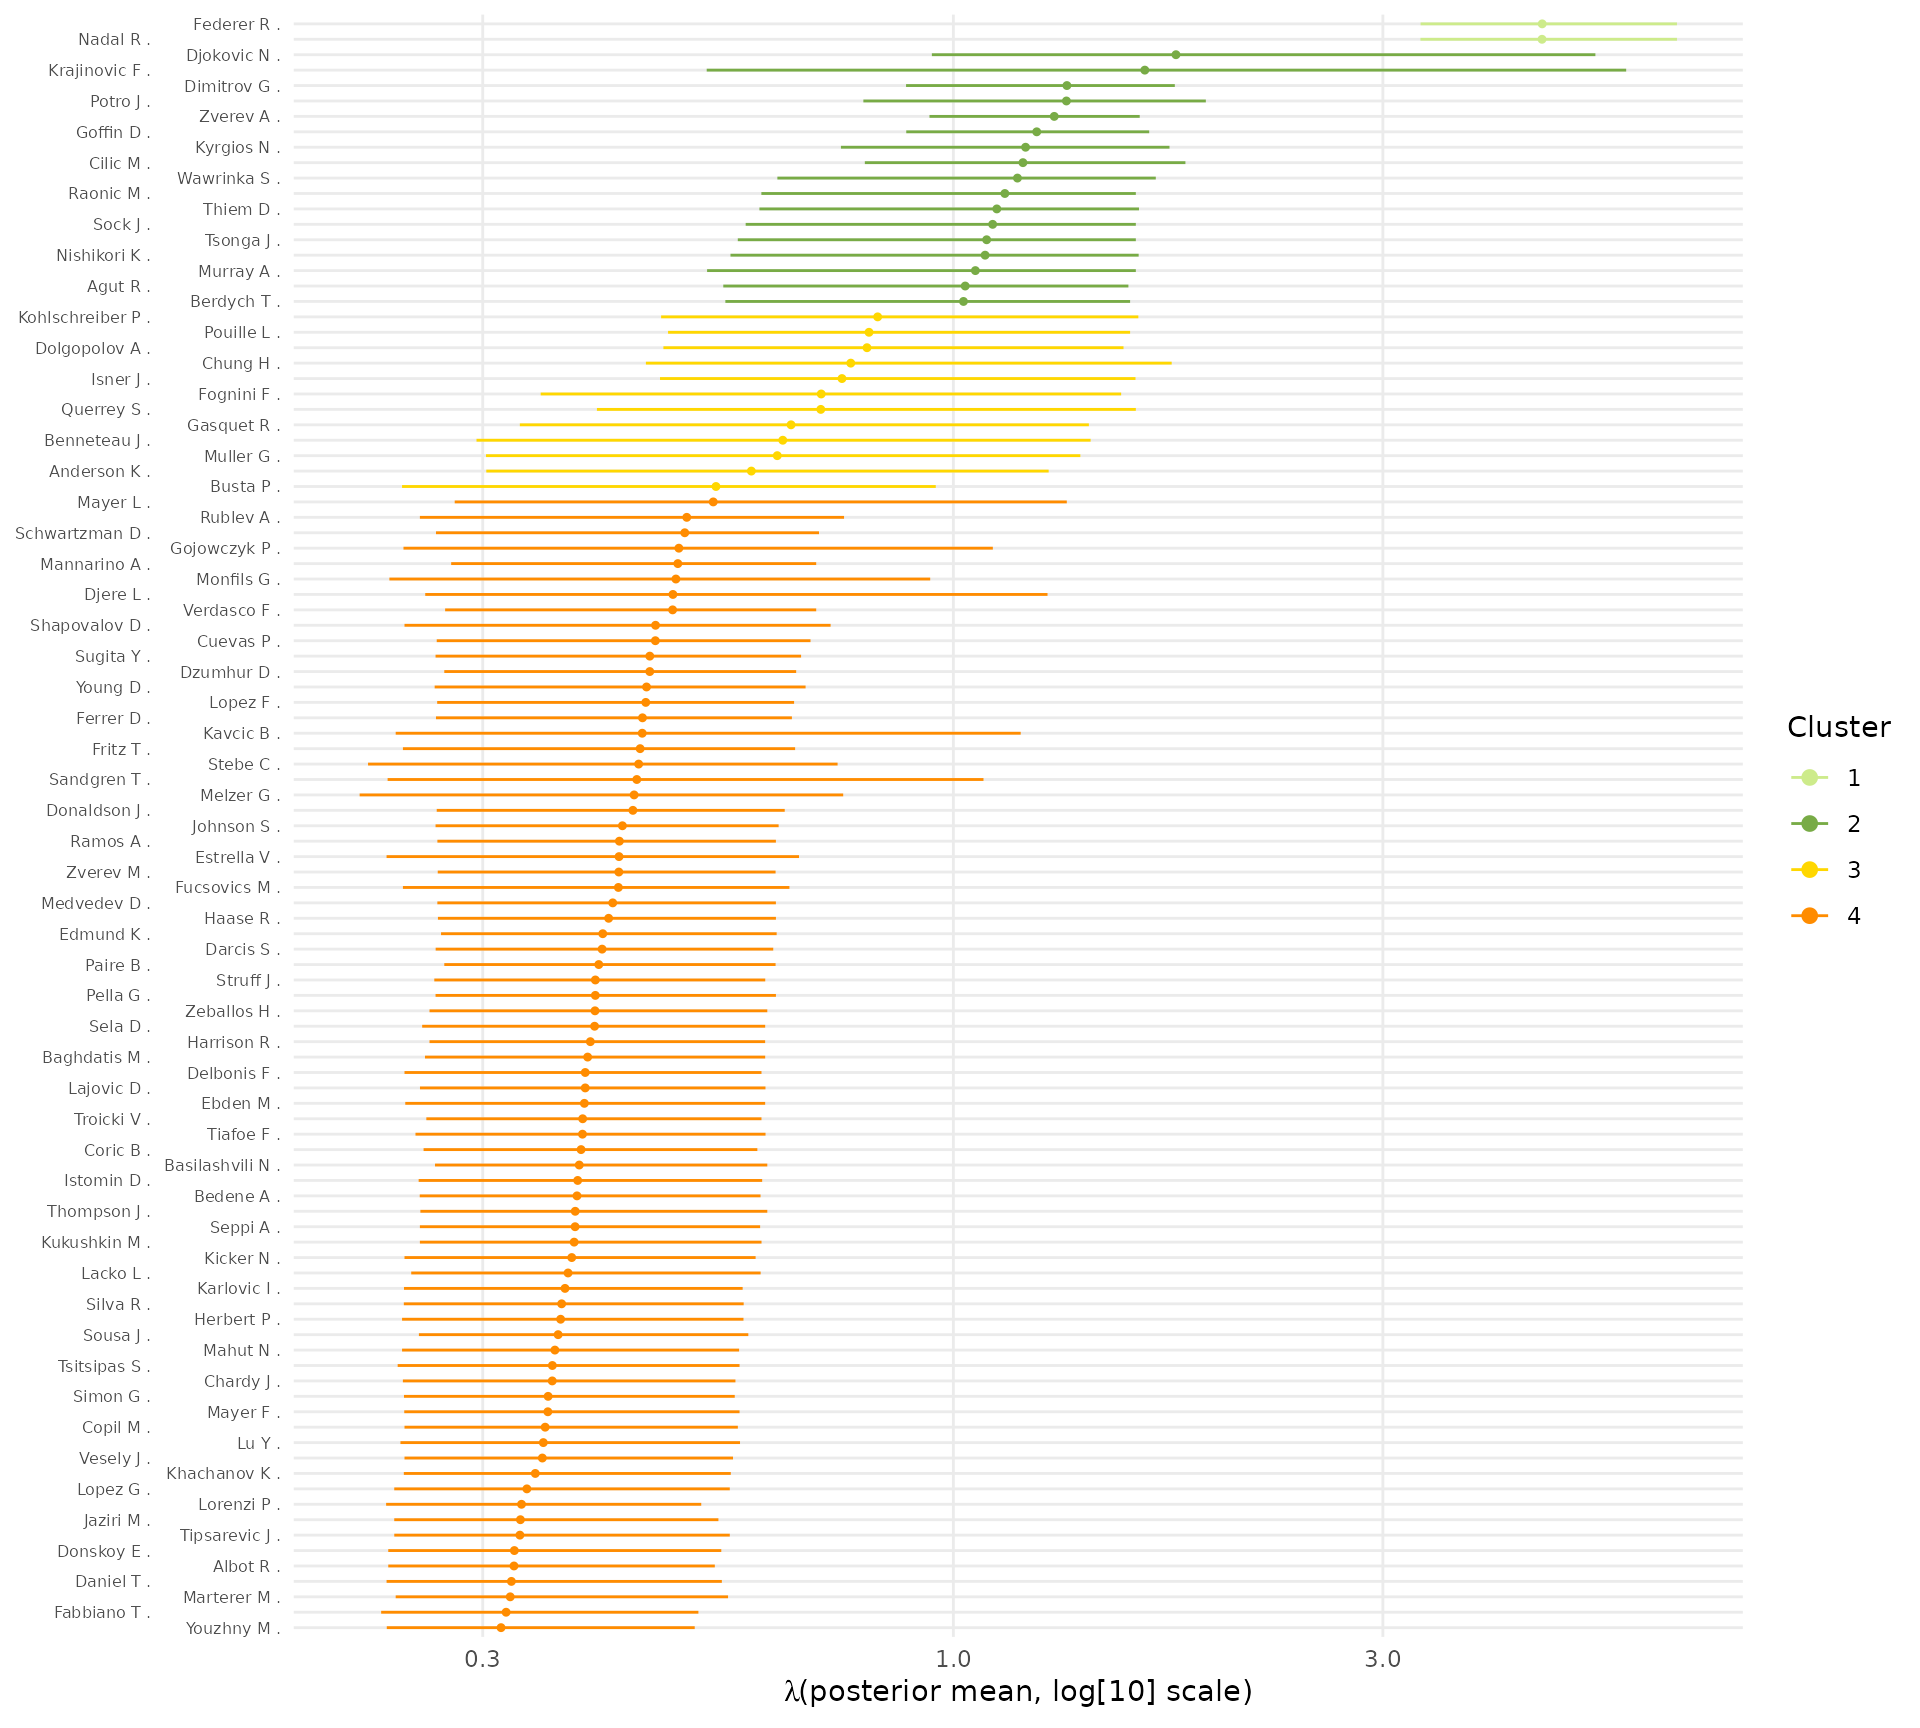
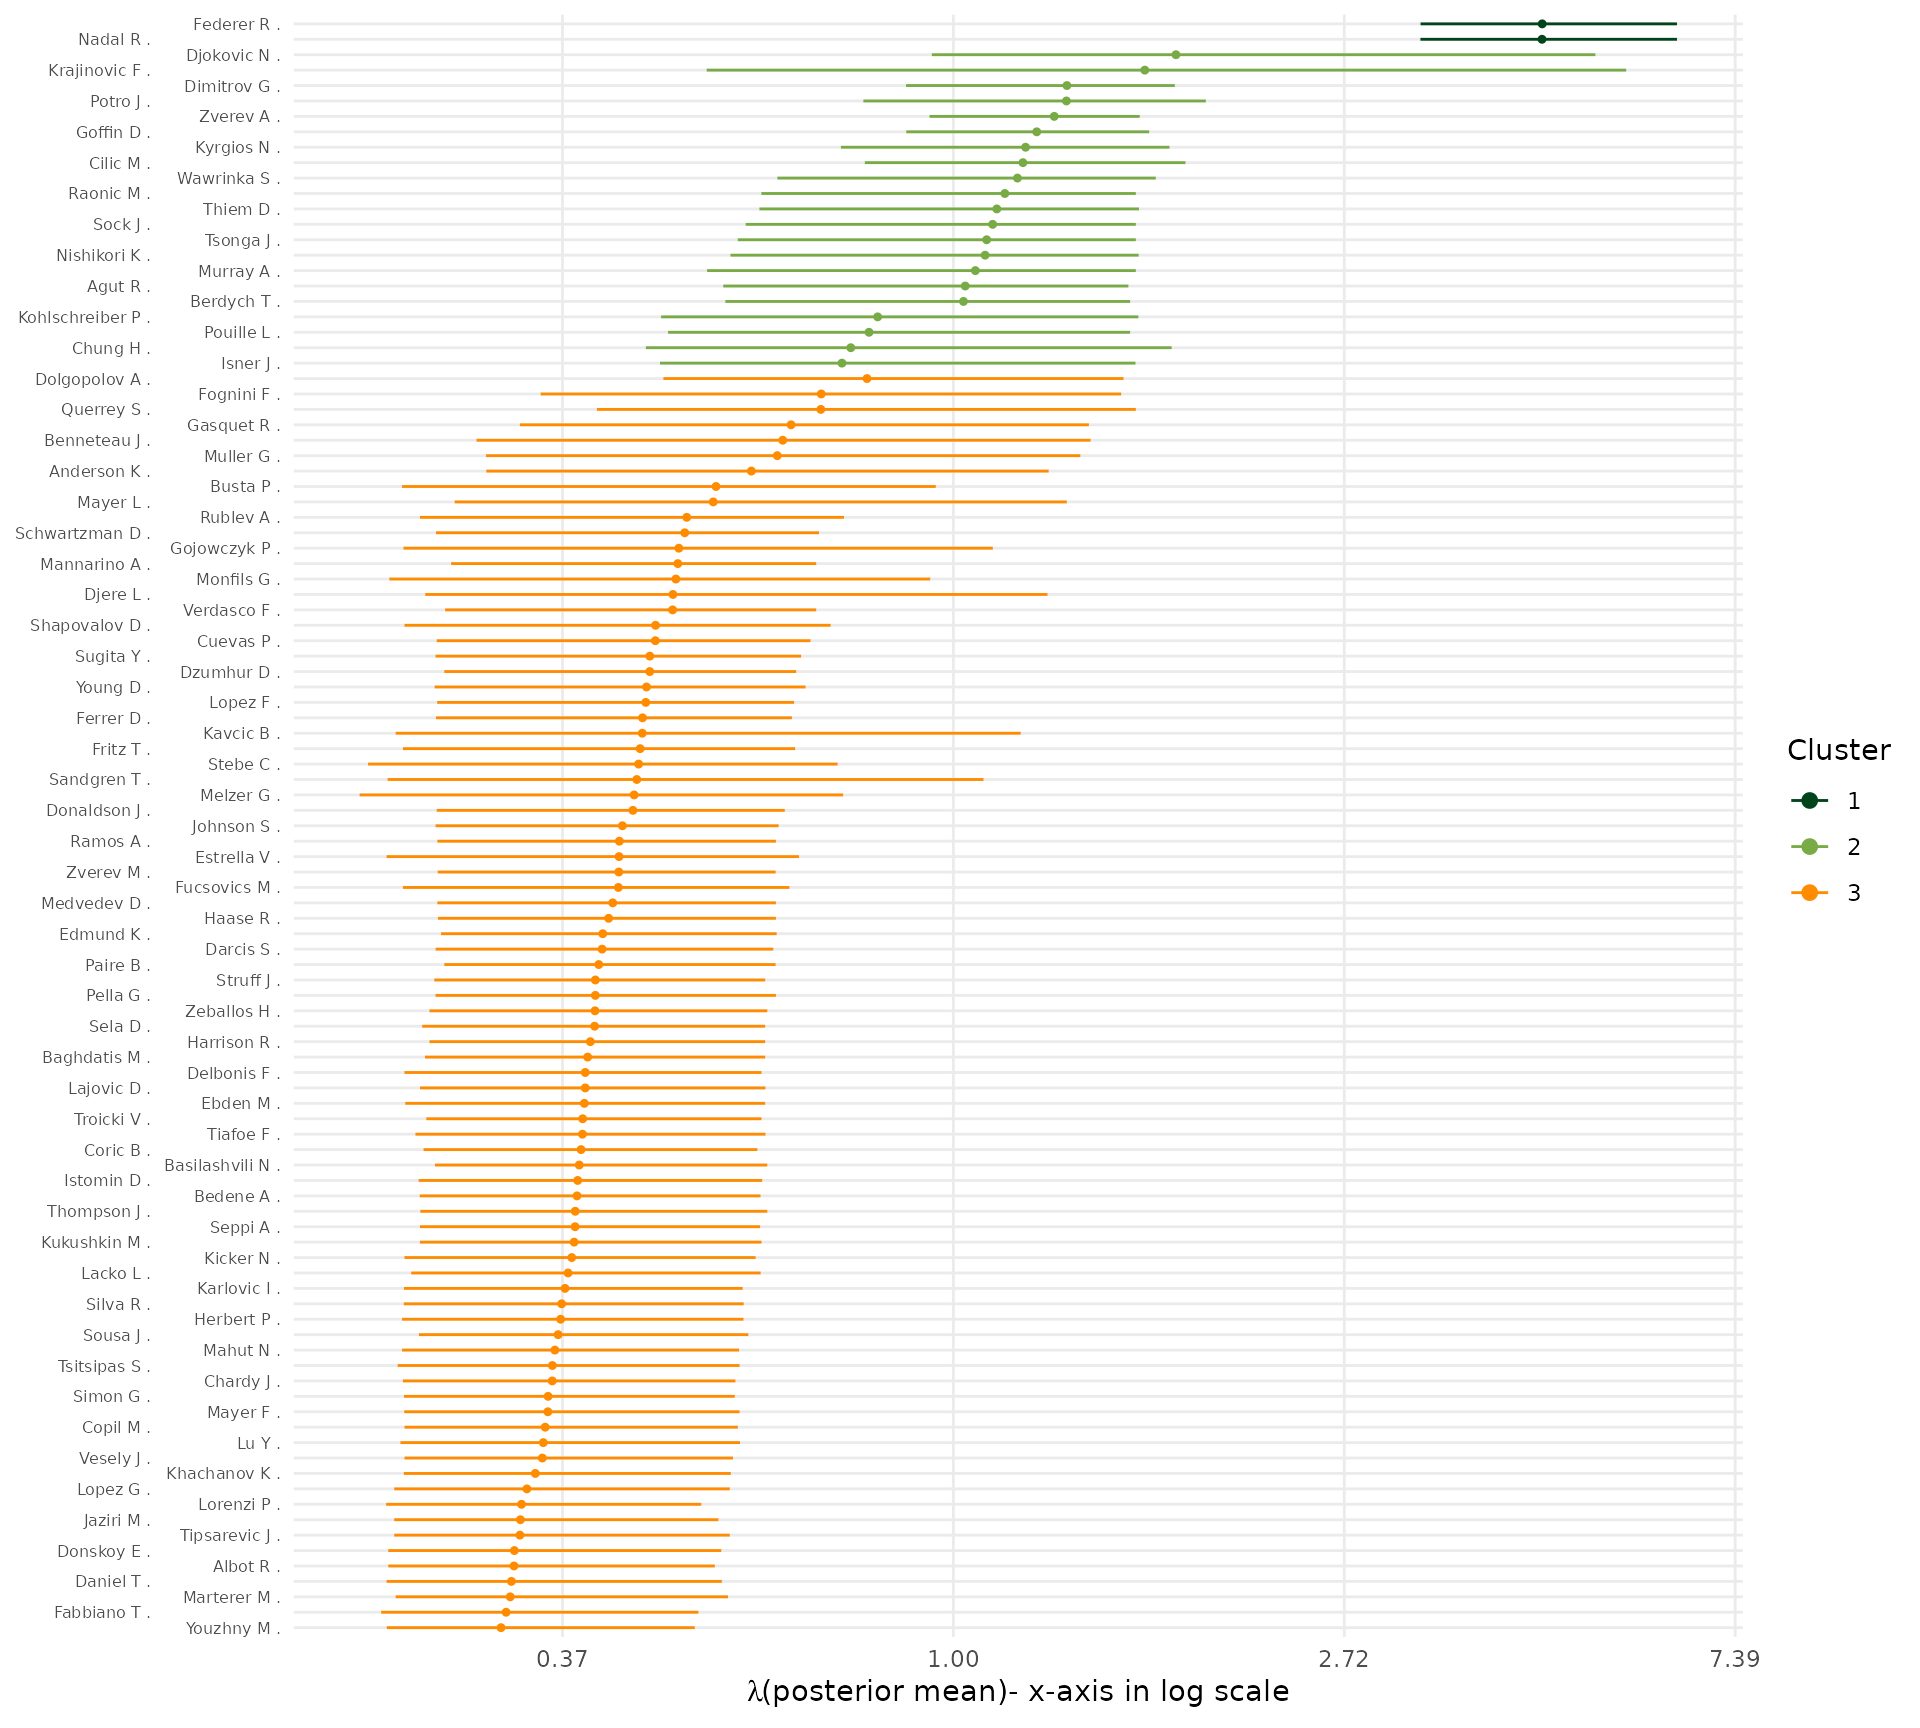
Deploying to gh-pages from @ laposanti/BTSBM@2275ee7d0e2554889c03f3bd73a6f85393547ae9 🚀

diff --git a/articles/getting-started.html b/articles/getting-started.html
@@ -73,7 +73,7 @@
       <h1>Getting started with BTSBM: the R package for the BT-SBM paper</h1>
                         <h4 data-toc-skip class="author">Lapo Santi</h4>
             
-            <h4 data-toc-skip class="date">2025-10-25</h4>
+            <h4 data-toc-skip class="date">2025-10-26</h4>
       
       <small class="dont-index">Source: <a href="https://github.com/laposanti/BTSBM/blob/main/vignettes/getting-started.Rmd" class="external-link"><code>vignettes/getting-started.Rmd</code></a></small>
       <div class="d-none name"><code>getting-started.Rmd</code></div>
@@ -228,8 +228,8 @@ structure.</p>
 <code class="sourceCode R"><span><span class="va">x_binder</span> <span class="op">&lt;-</span> <span class="va">post</span><span class="op">$</span><span class="va">partition_binder</span> <span class="co">#partition with Binder loss</span></span>
 <span><span class="fu"><a href="https://rdrr.io/r/base/table.html" class="external-link">table</a></span><span class="op">(</span><span class="va">x_binder</span><span class="op">)</span> <span class="co">#Block sizes</span></span></code></pre></div>
 <pre><code><span><span class="co">#&gt; x_binder</span></span>
-<span><span class="co">#&gt;  1  2  3  4 </span></span>
-<span><span class="co">#&gt;  2 17 12 74</span></span></code></pre>
+<span><span class="co">#&gt;  1  2  3  4  5  6  7  8  9 10 11 </span></span>
+<span><span class="co">#&gt;  2  1 16  5  1  1  1  1  3  1 73</span></span></code></pre>
 <div class="sourceCode" id="cb13"><pre class="downlit sourceCode r">
 <code class="sourceCode R"><span><span class="va">x_minVI</span> <span class="op">&lt;-</span> <span class="va">post</span><span class="op">$</span><span class="va">minVI_partition</span> <span class="co">#partition with MIN-VI loss</span></span>
 <span><span class="fu"><a href="https://rdrr.io/r/base/table.html" class="external-link">table</a></span><span class="op">(</span><span class="va">x_minVI</span><span class="op">)</span> <span class="co">#Block sizes</span></span></code></pre></div>

diff --git a/articles/Notation.html b/articles/Notation.html
@@ -72,7 +72,7 @@
 
       <h1>Notation and Object Dimensions for the Bradley–Terry Stochastic Block Model</h1>
             
-            <h4 data-toc-skip class="date">2025-10-25</h4>
+            <h4 data-toc-skip class="date">2025-10-26</h4>
       
       <small class="dont-index">Source: <a href="https://github.com/laposanti/BTSBM/blob/main/vignettes/Notation.Rmd" class="external-link"><code>vignettes/Notation.Rmd</code></a></small>
       <div class="d-none name"><code>Notation.Rmd</code></div>
